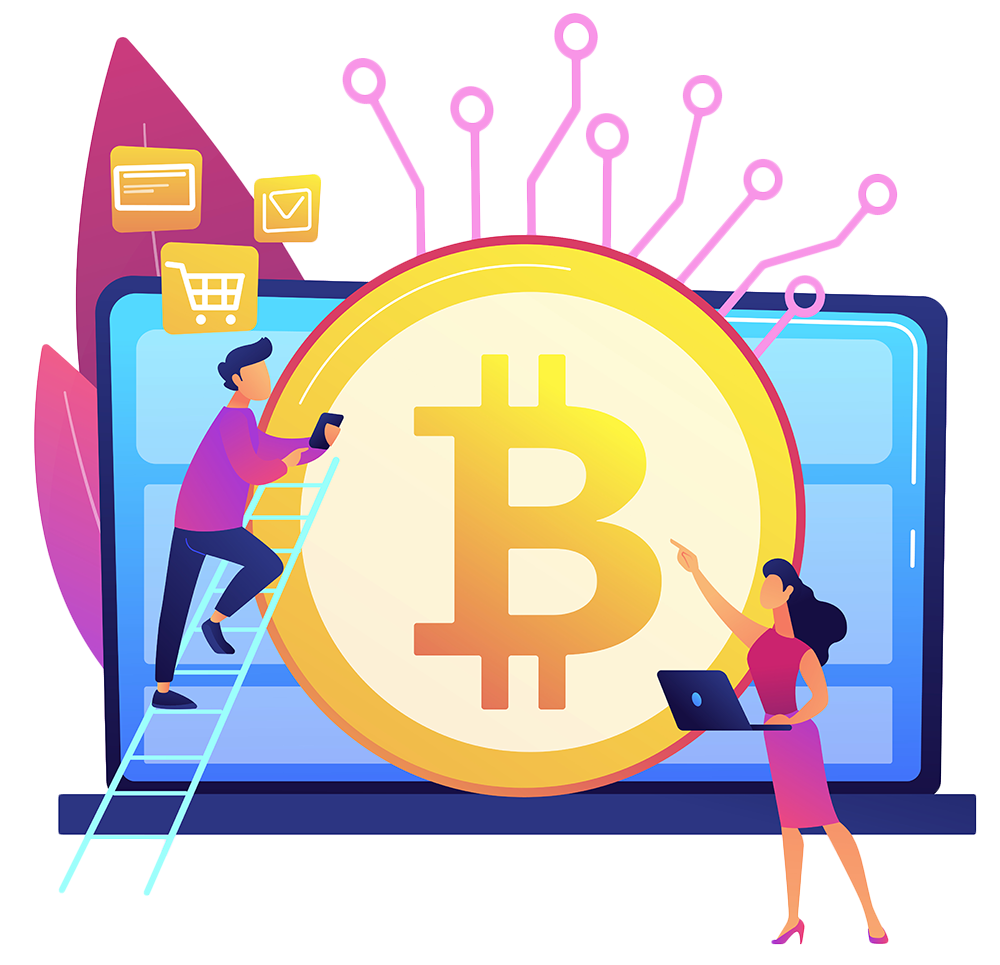
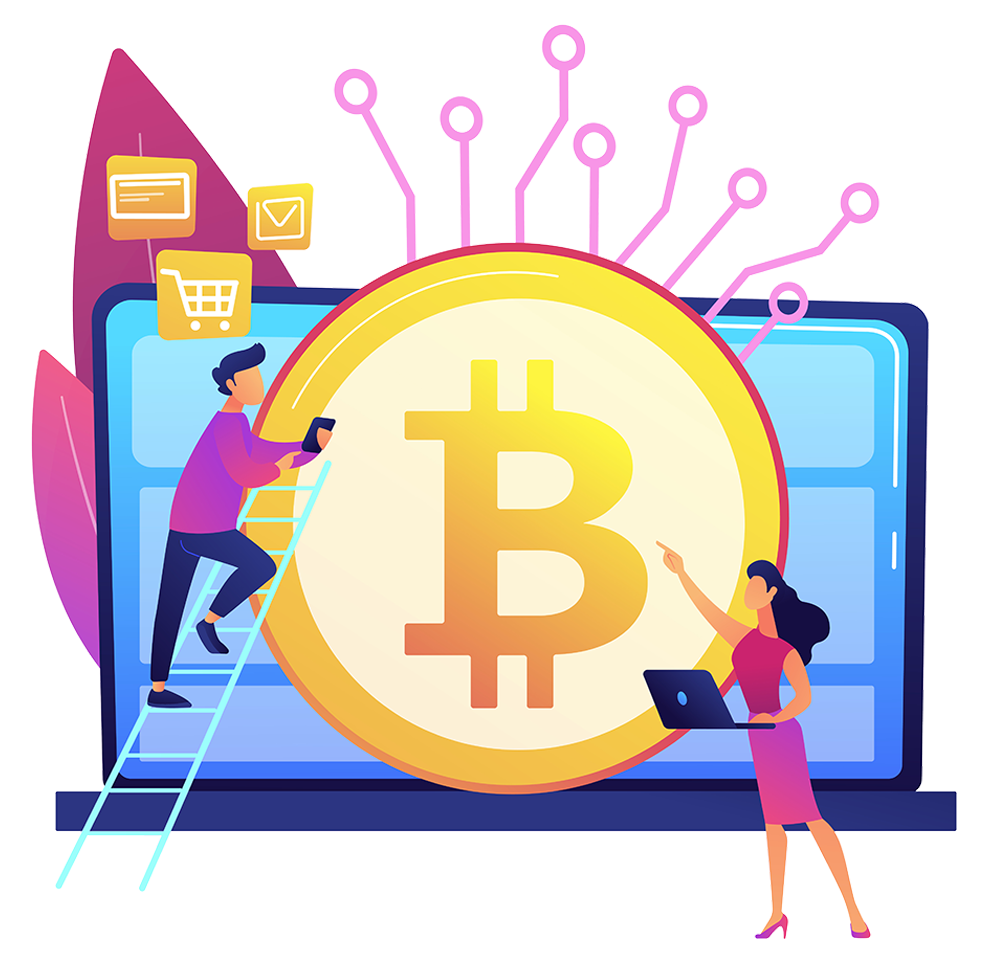
homepage images ajust, insert homepage text

diff --git a/content/spanish/_index.md b/content/spanish/_index.md
@@ -7,20 +7,17 @@ banner:
   button:
     enable: true
     label: "Comienza"
-    link: "https://github.com/zeon-studio/hugoplate"
+    link: "/"
 
 # Features
 features: 
   - title: "ABC de Bitcoin"
     image: "/images/ABC-bitcoin.png"
-    content: "Aprende los conceptos básicos del mundo bitcoiner, cómo usar bitcoin y cómo funciona su tecnología. Entiende su filosofía y por qué es el mejor dinero del mundo."
+    content: "Aprende los conceptos básicos del mundo bitcoiner, cómo usar bitcoin y cómo funciona su tecnología. Entiende su filosofía y por qué es el mejor dinero del mundo:"
     bulletpoints:
-      - "10+ Pre-build pages"
-      - "95+ Google Pagespeed Score"
-      - "Build with Hugo and TailwindCSS for easy and customizable styling"
-      - "Fully responsive on all devices"
-      - "SEO-optimized for better search engine rankings"
-      - "**Open-source and free** for personal and commercial use"
+      - "Visión general"
+      - "Fundamentos"
+      - "Primeros pasos"
     button:
       enable: true
       label: "Ir a nivel básico"
@@ -28,29 +25,23 @@ features:
 
   - title: "Aprende más"
     image: "/images/aprende-mas.png"
-    content: "Hugoplate is a comprehensive starter template that includes everything you need to get started with your Hugo project. What's Included in Hugoplate"
+    content: "Avancemos un paso más. Profundiza en la red global de Bitcoin, y aprende a realizar intercambios de forma segura y soberana:"
     bulletpoints:
-      - "10+ Pre-build pages"
-      - "95+ Google Pagespeed Score"
-      - "Build with Hugo and TailwindCSS for easy and customizable styling"
-      - "Fully responsive on all devices"
-      - "SEO-optimized for better search engine rankings"
-      - "**Open-source and free** for personal and commercial use"
+      - "Conoce las wallets más usadas"
+      - "Conoce Lightning Network"
+      - "Corre tu propio nodo"
     button:
       enable: true
       label: "Ir a nivel intermedio"
       link: "/es/intermedio"
       
   - title: "Mentorías personalizadas"
-    image: "/images/mentorias.png"
-    content: "Hugoplate is a comprehensive starter template that includes everything you need to get started with your Hugo project. What's Included in Hugoplate"
+    image: "/images/mentorias-v2.png"
+    content: "En este espacio te ofrecemos una gran cantidad de recursos gratuitos para ayudarte a comenzar tu viaje de aprendizaje. Pero si buscas ayuda adicional con un enfoque más personalizado, te invitamos a explorar nuestras mentorías:"
     bulletpoints:
-      - "10+ Pre-build pages"
-      - "95+ Google Pagespeed Score"
-      - "Build with Hugo and TailwindCSS for easy and customizable styling"
-      - "Fully responsive on all devices"
-      - "SEO-optimized for better search engine rankings"
-      - "**Open-source and free** for personal and commercial use"
+      - "Recibe acompañamiento paso a paso"
+      - "Profundiza en seguridad"
+      - "Resuelve dudas, y más"
     button:
       enable: true
       label: "solicitar"

diff --git a/content/spanish/pages/intermedio.md b/content/spanish/pages/intermedio.md
@@ -8,6 +8,8 @@ description: "Conceptos más profudos, para seguir adelante en la madriguera de 
 
 ---
 
+{{< image src="/images/Imagen-aprende-mas-2.png" caption="" alt="Personaje subiendo escaleras" height="" width="" position="center" command="fill" option="q100" class="img-fluid" title="image title"  webp="false" >}}
+
 * [¿Por qué Bitcoin importa para los Derechos Humanos?](../bitcoin_derechos_humanos)
 
 * [Cómo comprar bitcoin sin entregar tus datos personales con LNp2pBot](../como-comprar-bitcoin-sin-entregar-tus-datos-personales-con-lnp2pbot)
